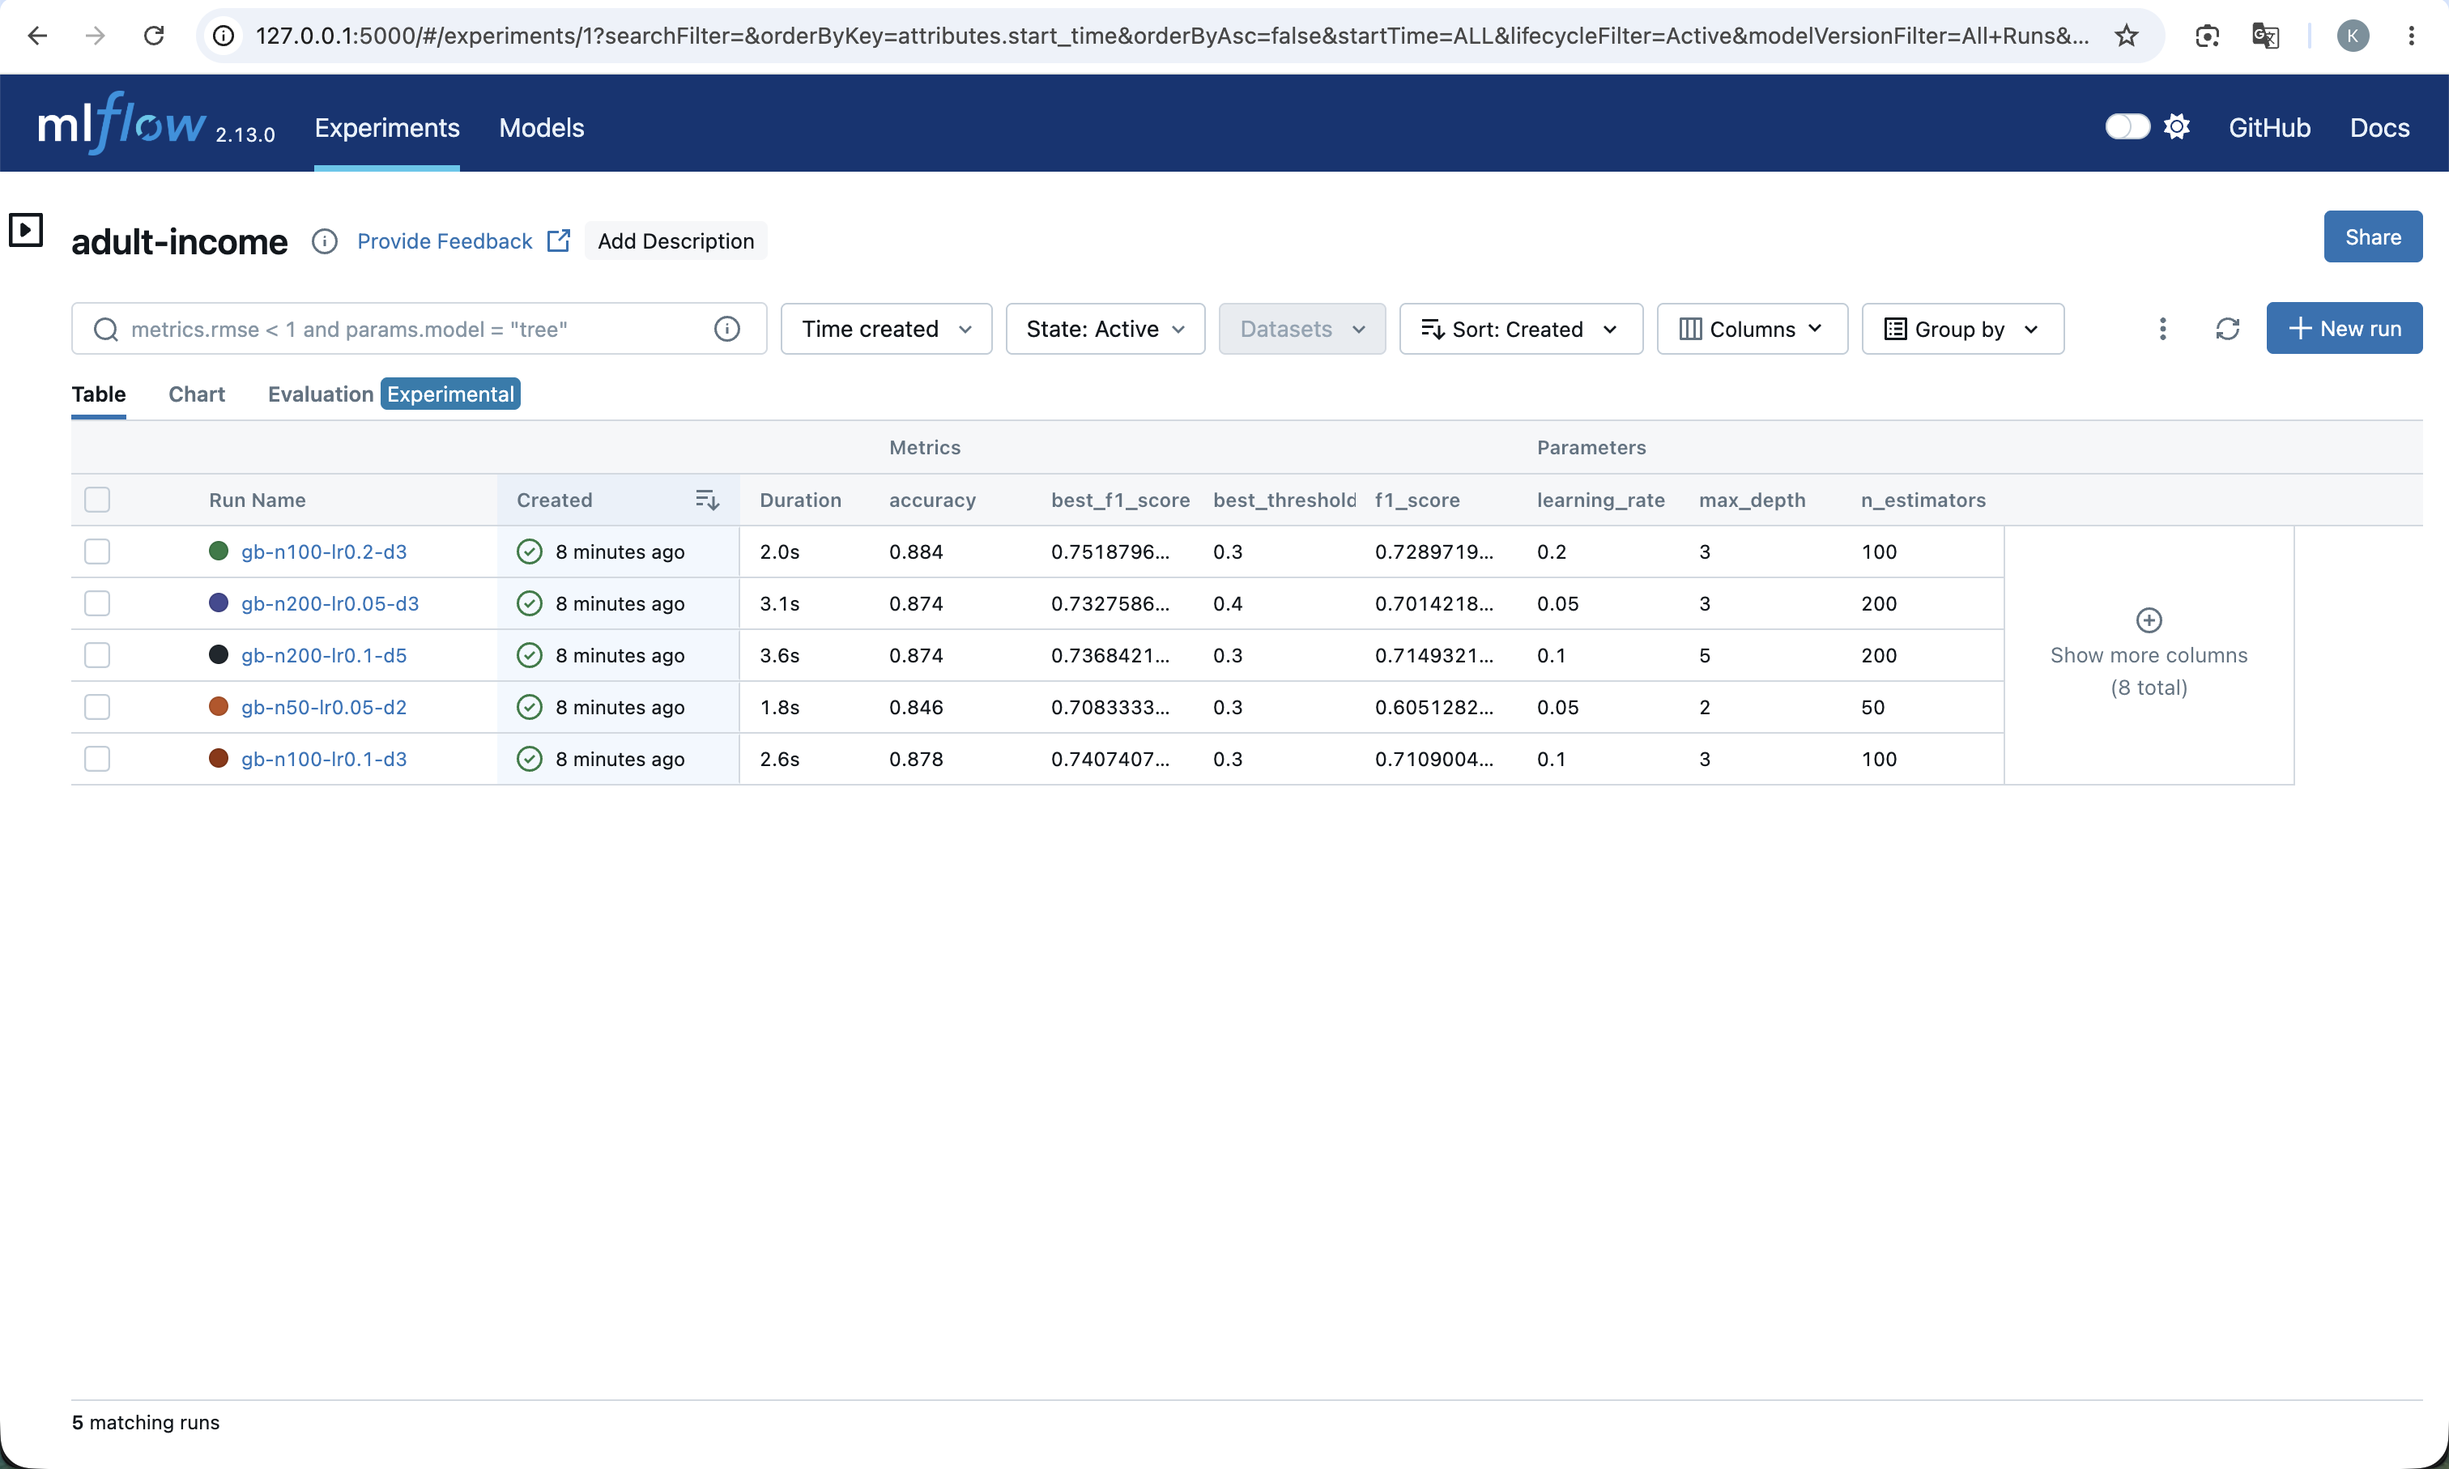
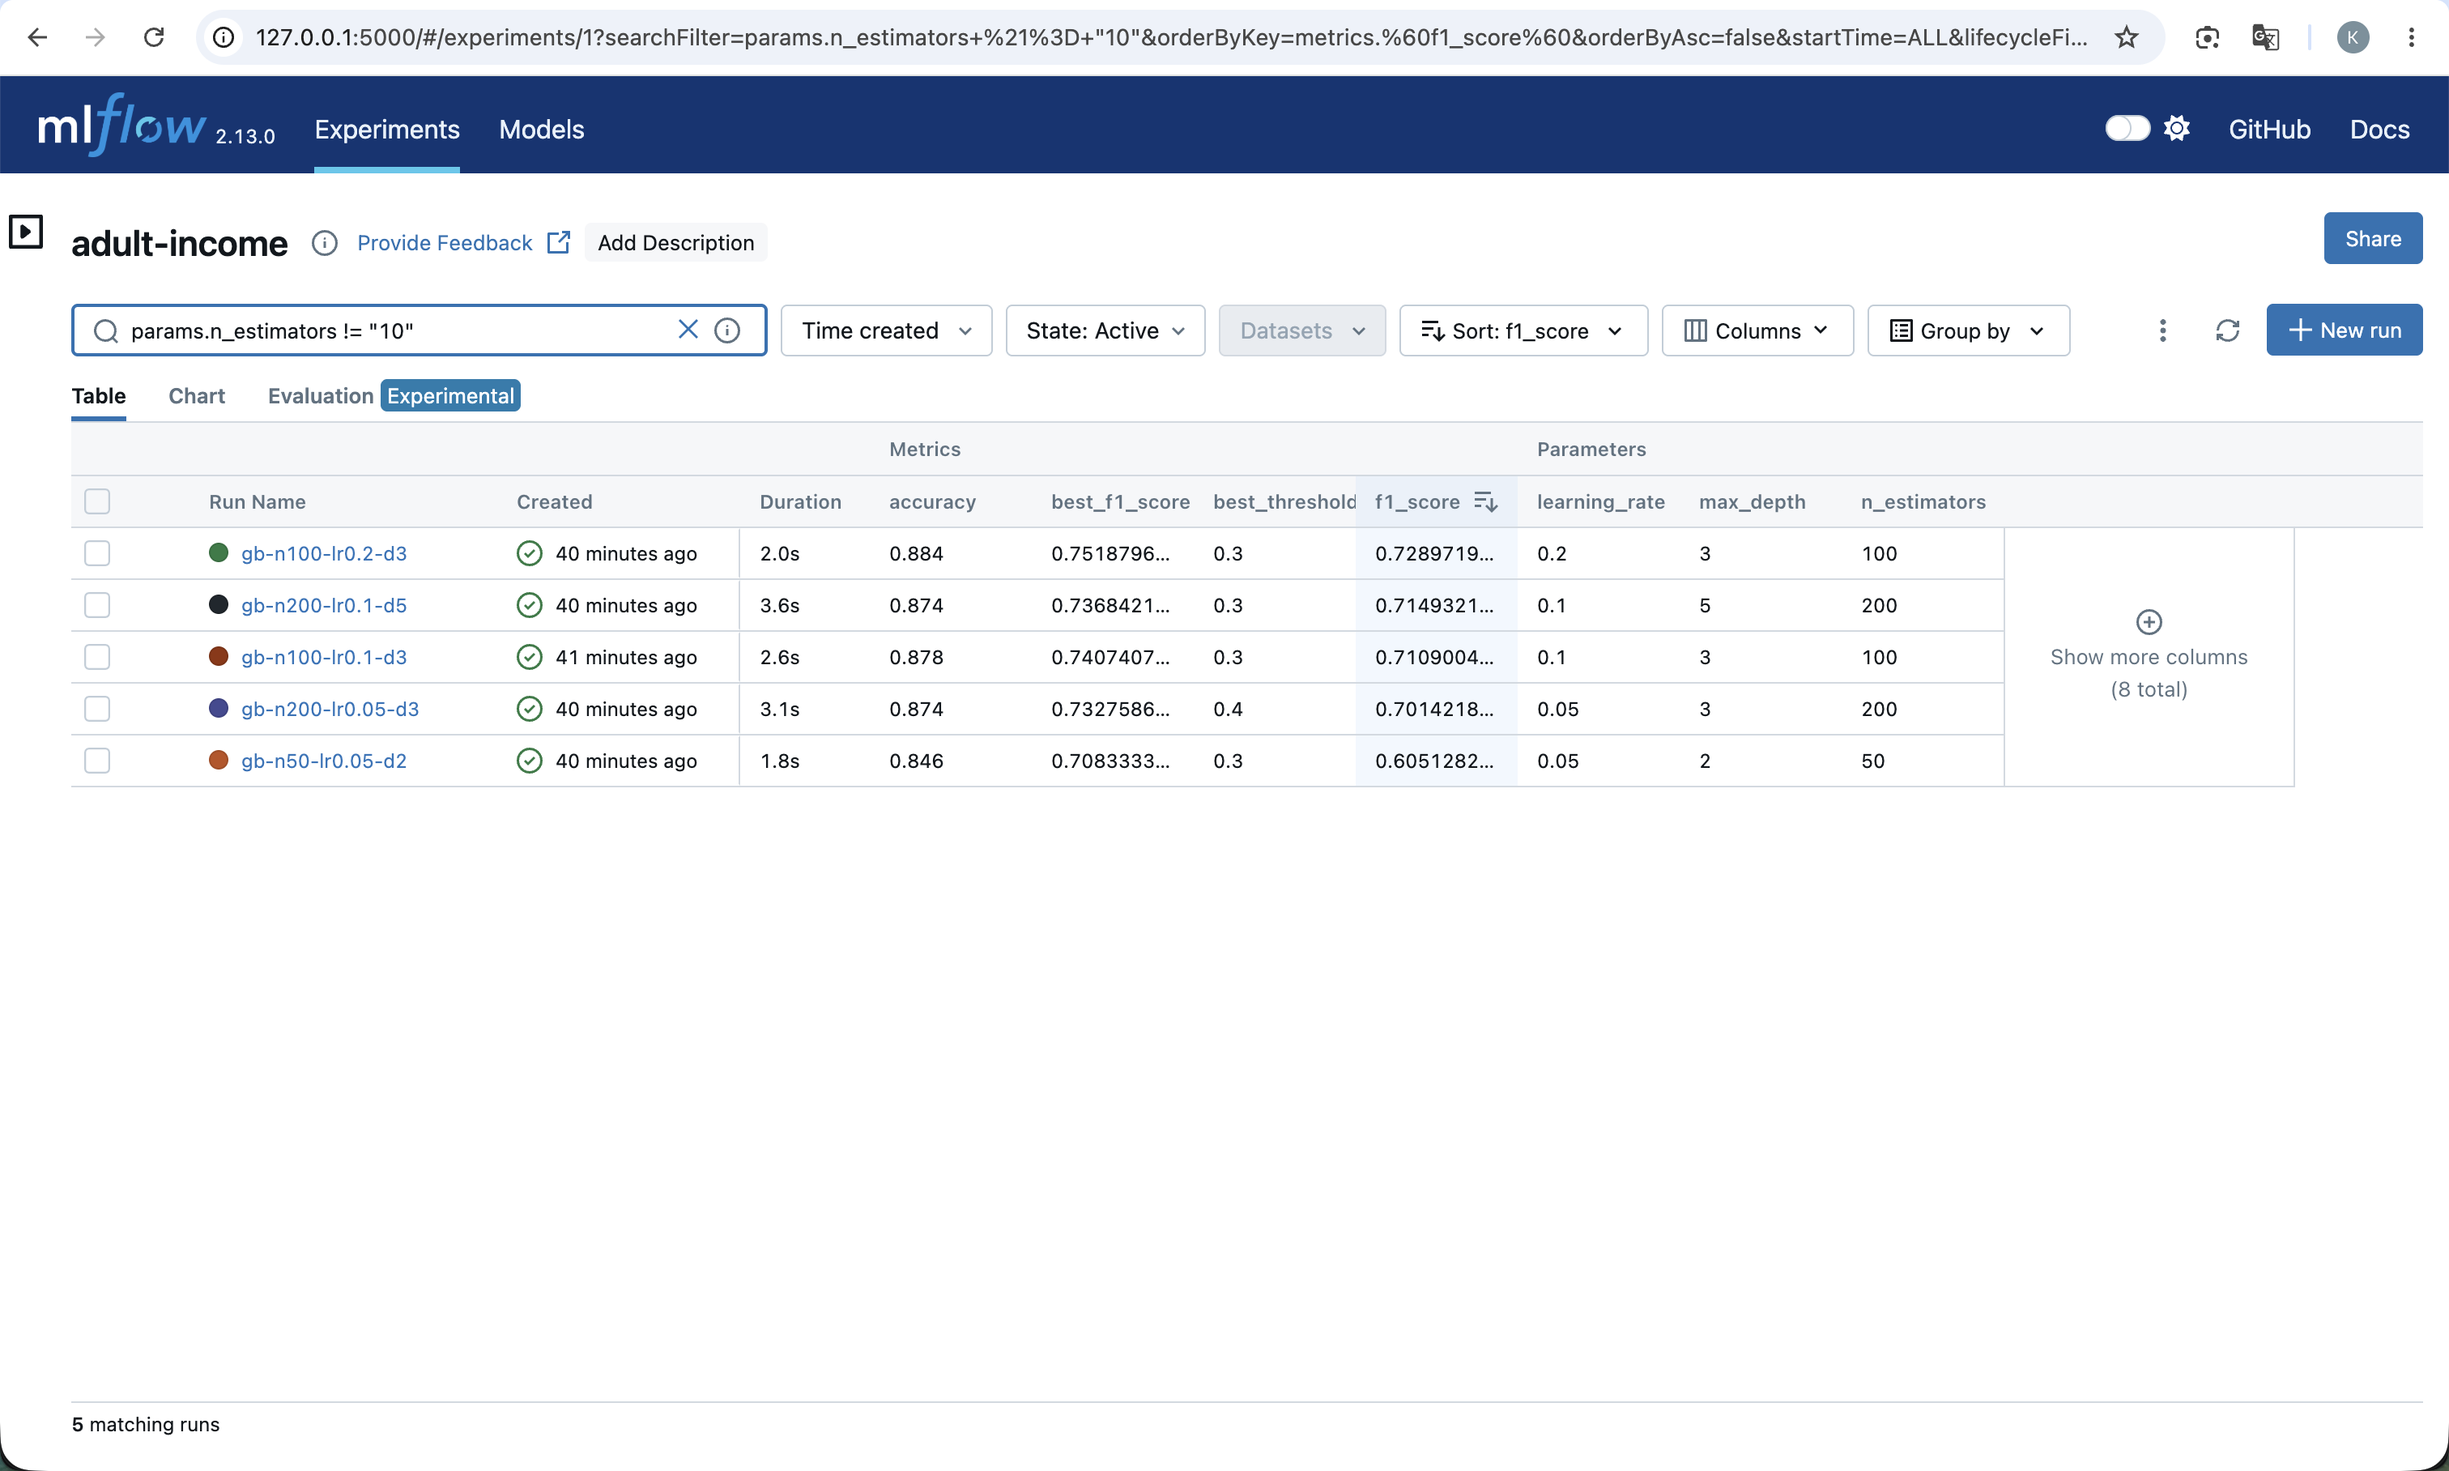
feat: configure GCP DVC serving VM and unit tests

diff --git a/tests/test_train.py b/tests/test_train.py
@@ -21,42 +21,32 @@ def _make_temp_data(tmp_path):
     rng = np.random.default_rng(0)
     n = 200
 
-    # TODO 1: Tao mang X co kich thuoc (n, len(FEATURE_NAMES)) voi gia tri [0, 1)
-    # X = rng.random((n, len(FEATURE_NAMES)))
+    X = rng.random((n, len(FEATURE_NAMES)))
+    y = rng.integers(0, 2, size=n)
 
-    # TODO 2: Tao mang y gom n phan tu nguyen ngau nhien trong [0, 2)
-    # Chu y: bai toan nay chi co HAI lop (0 va 1), nen can tren la 2.
-    # y = rng.integers(0, 2, size=n)
+    df = pd.DataFrame(X, columns=FEATURE_NAMES)
+    df["target"] = y
 
-    # TODO 3: Xay dung DataFrame, them cot "target"
-    # df = pd.DataFrame(X, columns=FEATURE_NAMES)
-    # df["target"] = y
+    train_path = str(tmp_path / "train.csv")
+    eval_path = str(tmp_path / "holdout.csv")
+    df.iloc[:160].to_csv(train_path, index=False)
+    df.iloc[160:].to_csv(eval_path, index=False)
 
-    # TODO 4: Luu 160 dong dau lam tap huan luyen, 40 dong cuoi lam tap holdout
-    # train_path = str(tmp_path / "train.csv")
-    # eval_path  = str(tmp_path / "holdout.csv")
-    # df.iloc[:160].to_csv(train_path, index=False)
-    # df.iloc[160:].to_csv(eval_path,  index=False)
-
-    # TODO 5: Tra ve (train_path, eval_path)
-    # return train_path, eval_path
-
-    pass  # xoa dong nay sau khi hoan thanh tat ca TODO ben tren
+    return train_path, eval_path
 
 
 def test_train_returns_float(tmp_path):
     """Kiem tra ham train() tra ve mot so thuc nam trong [0.0, 1.0]."""
     train_path, eval_path = _make_temp_data(tmp_path)
 
-    # TODO 6: Goi ham train() voi sieu tham so nho
-    # (n_estimators=10, learning_rate=0.1, max_depth=2) va cac duong dan file vua tao
-    # f1 = train({"n_estimators": 10, "learning_rate": 0.1, "max_depth": 2}, ...)
+    f1 = train(
+        {"n_estimators": 10, "learning_rate": 0.1, "max_depth": 2},
+        data_path=train_path,
+        eval_path=eval_path,
+    )
 
-    # TODO 7: Kiem tra ket qua
-    # assert isinstance(f1, float)
-    # assert 0.0 <= f1 <= 1.0
-
-    pass  # xoa dong nay sau khi hoan thanh tat ca TODO ben tren
+    assert isinstance(f1, float)
+    assert 0.0 <= f1 <= 1.0
 
 
 def test_report_file_created(tmp_path):
@@ -68,14 +58,11 @@ def test_report_file_created(tmp_path):
         eval_path=eval_path,
     )
 
-    # TODO 8: Kiem tra file ton tai va noi dung dung dinh dang
-    # assert os.path.exists("outputs/report.json")
-    # with open("outputs/report.json") as f:
-    #     report = json.load(f)
-    # assert "f1_score" in report
-    # assert "accuracy" in report
-
-    pass  # xoa dong nay sau khi hoan thanh tat ca TODO ben tren
+    assert os.path.exists("outputs/report.json")
+    with open("outputs/report.json") as f:
+        report = json.load(f)
+    assert "f1_score" in report
+    assert "accuracy" in report
 
 
 def test_model_file_created(tmp_path):
@@ -87,7 +74,4 @@ def test_model_file_created(tmp_path):
         eval_path=eval_path,
     )
 
-    # TODO 9: Kiem tra file model ton tai
-    # assert os.path.exists("models/model.joblib")
-
-    pass  # xoa dong nay sau khi hoan thanh tat ca TODO ben tren
+    assert os.path.exists("models/model.joblib")

diff --git a/src/serve.py b/src/serve.py
@@ -15,23 +15,25 @@ def download_model():
     """
     Tai file model.joblib tu cloud storage ve may khi server khoi dong.
 
-    Ham nay duoc goi mot lan khi module duoc import. Su dung
-    GOOGLE_APPLICATION_CREDENTIALS de xac thuc (duoc dat trong systemd service).
+    Ham nay duoc goi mot lan khi module duoc import. Google Cloud SDK tu dong
+    dung Application Default Credentials. Tren GCE, credentials den tu service
+    account gan truc tiep vao VM, khong can luu private key tren may.
     """
-    # TODO 1: Tao storage.Client()
-    # client = storage.Client()
+    os.makedirs(os.path.dirname(MODEL_PATH), exist_ok=True)
+    client = storage.Client()
 
-    # TODO 2: Lay bucket va blob tuong ung
-    # bucket = client.bucket(ARTIFACT_BUCKET)
-    # blob   = bucket.blob(MODEL_KEY)
+    bucket = client.bucket(ARTIFACT_BUCKET)
+    blob = bucket.blob(MODEL_KEY)
 
-    # TODO 3: Tai file model xuong may
-    # blob.download_to_filename(MODEL_PATH)
+    if not blob.exists(client):
+        raise RuntimeError(
+            f"Model gs://{ARTIFACT_BUCKET}/{MODEL_KEY} chua ton tai. "
+            "Hay chay pipeline huan luyen truoc khi khoi dong service."
+        )
 
-    # TODO 4: In thong bao thanh cong
-    # print("Model da duoc tai xuong tu cloud storage.")
+    blob.download_to_filename(MODEL_PATH)
 
-    pass  # xoa dong nay sau khi hoan thanh tat ca TODO ben tren
+    print(f"Model da duoc tai tu gs://{ARTIFACT_BUCKET}/{MODEL_KEY}.")
 
 
 download_model()
@@ -50,8 +52,7 @@ def healthz():
 
     Tra ve: {"status": "ok"}
     """
-    # TODO 5: Tra ve dict {"status": "ok"}
-    pass  # xoa dong nay sau khi hoan thanh
+    return {"status": "ok"}
 
 
 @app.post("/score")
@@ -66,17 +67,15 @@ def score(req: ScoreRequest):
         age, workclass, education_num, marital_status, occupation,
         relationship, sex, capital_gain, capital_loss, hours_per_week
     """
-    # TODO 6: Kiem tra so luong dac trung.
-    # Neu len(req.features) != 10, raise HTTPException(status_code=400, ...)
+    if len(req.features) != 10:
+        raise HTTPException(
+            status_code=400,
+            detail="Expected 10 features (adult income)",
+        )
 
-    # TODO 7: Goi model.predict([req.features]) de lay ket qua du doan.
-    # pred = model.predict(...)
-
-    # TODO 8: Tra ve dict chua "prediction" (int) va "label" (string).
-    # Nhan tuong ung: 0 -> "thu_nhap_thap", 1 -> "thu_nhap_cao"
-    # return {"prediction": ..., "label": ...}
-
-    pass  # xoa dong nay sau khi hoan thanh tat ca TODO ben tren
+    prediction = int(model.predict([req.features])[0])
+    labels = {0: "thu_nhap_thap", 1: "thu_nhap_cao"}
+    return {"prediction": prediction, "label": labels[prediction]}
 
 
 if __name__ == "__main__":

diff --git a/nop-bai/bao-cao.md b/nop-bai/bao-cao.md
@@ -80,9 +80,9 @@ Cần nêu được:
 
 | Khó khăn | Nguyên nhân | Cách giải quyết |
 |---|---|---|
-| ___ | ___ | ___ |
-| ___ | ___ | ___ |
-| ___ | ___ | ___ |
+| MLflow lỗi thiếu `pkg_resources` | Setuptools mới đã bỏ API cũ mà MLflow 2.13 vẫn dùng | Pin `setuptools==70.0.0` trong requirements |
+| DVC không ghi được `/Library/Caches/dvc` | DVC 3.50 chọn system site cache trên macOS | Đặt `core.site_cache_dir=.dvc/tmp/site-cache` |
+| GCP cấm tạo service-account key JSON | Project bật policy `iam.disableServiceAccountKeyCreation` | Dùng ADC local, service account gắn VM và chuẩn bị Workload Identity Federation cho CI |
 
 ---
 
